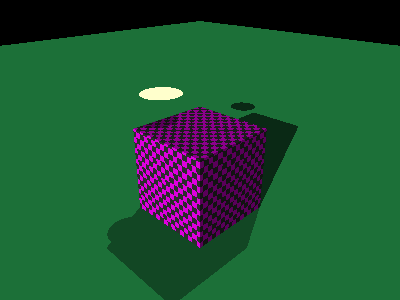
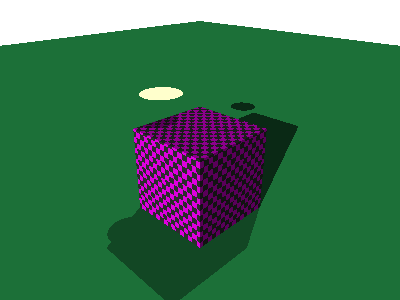
Added support for transparency in image backgrounds

Changed region(s): [[0.0, 0.0, 1.0, 0.15]]

diff --git a/src/render/render.rs b/src/render/render.rs
@@ -3,11 +3,11 @@ use rayon::prelude::*;
 
 use crate::{
     camera::Camera,
-    colour::Rgb,
+    colour::Rgba,
     material::Material,
     render::RenderSettings,
     shader::Shader,
-    storage::RgbImage,
+    storage::RgbaImage,
     tracing::Probe,
     world::{Scene, World},
 };
@@ -24,9 +24,9 @@ struct Tile {
     y1: usize,
 }
 
-pub fn render_probe(world: &World, scene: &Scene, probe: Probe, settings: RenderSettings) -> Rgb {
+pub fn render_probe(world: &World, scene: &Scene, probe: Probe, settings: RenderSettings) -> Rgba {
     if probe.generation >= MAX_GENERATION || probe.weight <= MIN_WEIGHT {
-        return Rgb::BLACK;
+        return Rgba::TRANSPARENT;
     }
 
     let Some(world_hit) = scene.trace(world, &probe.ray) else {
@@ -43,16 +43,16 @@ pub fn render_probe(world: &World, scene: &Scene, probe: Probe, settings: Render
     let direct = scene.direct_light(world, &probe.ray, &world_hit) * scatter.local_fraction;
     let local_colour = emitted + direct;
 
-    let bounced_colours = scatter
+    let bounced_colours: Rgba = scatter
         .children
         .into_iter()
         .map(|(fraction, child)| render_probe(world, scene, probe.child(child, fraction), settings))
         .sum();
 
-    local_colour + bounced_colours
+    local_colour.to_rgba() + bounced_colours
 }
 
-pub fn render_image<C>(world: &World, scene: &Scene, camera: &C, settings: RenderSettings) -> RgbImage
+pub fn render_image<C>(world: &World, scene: &Scene, camera: &C, settings: RenderSettings) -> RgbaImage
 where
     C: Camera + Sync,
 {
@@ -66,7 +66,7 @@ pub fn render_image_with_progress<C>(
     settings: RenderSettings,
     label: impl Into<String>,
     done_label: impl Into<String>,
-) -> RgbImage
+) -> RgbaImage
 where
     C: Camera + Sync,
 {
@@ -92,7 +92,7 @@ fn render_image_inner<C>(
     camera: &C,
     settings: RenderSettings,
     progress: Option<&ProgressBar>,
-) -> RgbImage
+) -> RgbaImage
 where
     C: Camera + Sync,
 {
@@ -104,7 +104,7 @@ where
 
     let tiles = make_tiles(settings.resolution);
 
-    let rendered_tiles: Vec<(Tile, Vec<Rgb>)> = tiles
+    let rendered_tiles: Vec<(Tile, Vec<Rgba>)> = tiles
         .into_par_iter()
         .map(|tile| {
             let tile_width = tile.x1 - tile.x0;
@@ -116,7 +116,7 @@ where
 
                 for local_x in 0..tile_width {
                     let x = tile.x0 + local_x;
-                    let mut colour = Rgb::BLACK;
+                    let mut colour = Rgba::TRANSPARENT;
 
                     for sy in 0..ss {
                         for sx in 0..ss {
@@ -142,7 +142,7 @@ where
         })
         .collect();
 
-    let mut image = RgbImage::filled(settings.resolution, settings.background);
+    let mut image = RgbaImage::filled(settings.resolution, settings.background);
 
     for (tile, pixels) in rendered_tiles {
         let tile_width = tile.x1 - tile.x0;

diff --git a/src/render/render_settings.rs b/src/render/render_settings.rs
@@ -1,28 +1,18 @@
-use crate::{colour::Rgb, config::RenderConfig};
+use crate::{colour::Rgba, config::RenderConfig};
 
 #[derive(Debug, Clone, Copy)]
 pub struct RenderSettings {
+    pub background: Rgba,
     pub resolution: [usize; 2],
     pub super_samples: usize,
-    pub background: Rgb,
 }
 
-impl From<RenderConfig> for RenderSettings {
-    fn from(value: RenderConfig) -> Self {
+impl RenderSettings {
+    pub fn from_config(config: &RenderConfig, default_background: Rgba) -> Self {
         Self {
-            resolution: value.resolution,
-            super_samples: value.super_samples,
-            background: value.background,
-        }
-    }
-}
-
-impl From<&RenderConfig> for RenderSettings {
-    fn from(value: &RenderConfig) -> Self {
-        Self {
-            resolution: value.resolution,
-            super_samples: value.super_samples,
-            background: value.background,
+            resolution: config.resolution,
+            super_samples: config.super_samples,
+            background: config.background.unwrap_or(default_background),
         }
     }
 }

diff --git a/src/config/scene_config.rs b/src/config/scene_config.rs
@@ -7,6 +7,7 @@ use serde::{Deserialize, Serialize};
 
 use crate::{
     camera::CameraEnum,
+    colour::Rgba,
     config::{
         GeometryConfig, ImageConfig, LightConfig, MaterialConfig, Named, ObjectConfig, RenderConfig, ShaderConfig,
     },
@@ -34,6 +35,7 @@ pub struct SceneConfig {
 }
 
 pub struct BuiltCamera {
+    pub background: Rgba,
     pub camera: CameraEnum,
     pub renders: BTreeMap<String, RenderConfig>,
 }
@@ -112,6 +114,7 @@ impl SceneConfig {
             cameras.insert(
                 camera_name,
                 BuiltCamera {
+                    background: camera_entry.background,
                     camera: built_camera,
                     renders: camera_entry.renders,
                 },

diff --git a/src/config/image_config.rs b/src/config/image_config.rs
@@ -2,13 +2,17 @@ use std::collections::BTreeMap;
 
 use serde::{Deserialize, Serialize};
 
-use crate::config::{CameraConfig, RenderConfig};
+use crate::{
+    colour::Rgba,
+    config::{CameraConfig, RenderConfig, defaults},
+};
 
 #[derive(Debug, Clone, Serialize, Deserialize)]
 pub struct ImageConfig {
+    #[serde(default = "defaults::transparent")]
+    pub background: Rgba,
     #[serde(flatten)]
     pub camera: CameraConfig,
-
     #[serde(default)]
     pub renders: BTreeMap<String, RenderConfig>,
 }

diff --git a/src/config/render_config.rs b/src/config/render_config.rs
@@ -1,12 +1,12 @@
 use serde::{Deserialize, Serialize};
 
-use crate::{colour::Rgb, config::defaults};
+use crate::{colour::Rgba, config::defaults};
 
 #[derive(Debug, Clone, Serialize, Deserialize)]
 pub struct RenderConfig {
     pub resolution: [usize; 2],
-    #[serde(default = "defaults::black")]
-    pub background: Rgb,
+    #[serde(default)]
+    pub background: Option<Rgba>,
     #[serde(default = "defaults::one_usize")]
     pub super_samples: usize,
 }

diff --git a/src/bin/main.rs b/src/bin/main.rs
@@ -11,7 +11,7 @@ fn main() {
             create_dir_all(&dir).unwrap();
 
             let path = format!("{dir}/{render_name}.png");
-            let settings = RenderSettings::from(render);
+            let settings = RenderSettings::from_config(render, built_camera.background);
             let label = format!("{image_name}/{render_name}");
 
             let image = render_image_with_progress(

diff --git a/src/config/defaults.rs b/src/config/defaults.rs
@@ -1,4 +1,7 @@
-use crate::{colour::Rgb, config::Vec3};
+use crate::{
+    colour::{Rgb, Rgba},
+    config::Vec3,
+};
 
 pub fn one_f32() -> f32 {
     1.0
@@ -18,4 +21,8 @@ pub fn z_axis() -> Vec3 {
 
 pub fn black() -> Rgb {
     Rgb::BLACK
+}
+
+pub fn transparent() -> Rgba {
+    Rgba::TRANSPARENT
 }

diff --git a/src/colour/rgba.rs b/src/colour/rgba.rs
@@ -104,7 +104,7 @@ impl DivAssign<f32> for Rgba {
 
 impl Sum for Rgba {
     fn sum<I: Iterator<Item = Self>>(iter: I) -> Self {
-        iter.fold(Self::BLACK, |a, b| a + b)
+        iter.fold(Self::TRANSPARENT, |a, b| a + b)
     }
 }
 
